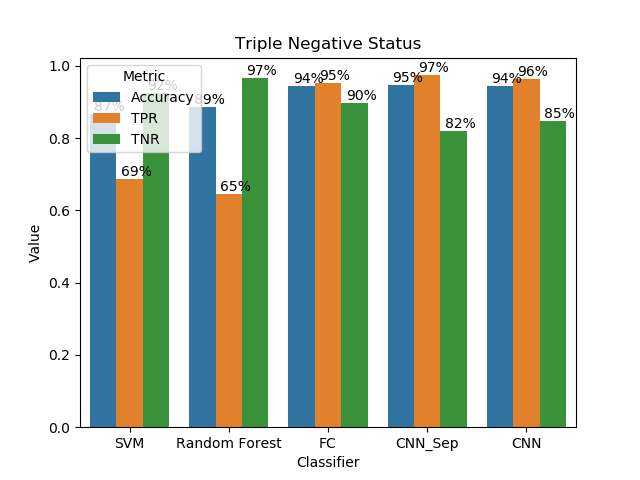
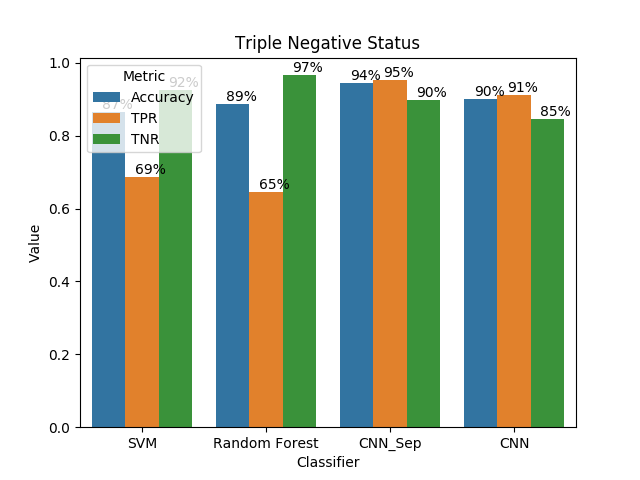
Add triple negative nn classification

diff --git a/receptorStatusPrediction.py b/receptorStatusPrediction.py
@@ -110,8 +110,8 @@ class ClassifyNet2D(nn.Module):
                 self.layers.append(nn.MaxPool2d(2))
         for i in range(num_layers):
             if i == 0:
-                # self.layers.append(nn.Linear(414*219*8, hidden_dim))
-                self.layers.append(nn.Linear(207 * 109 * 8, hidden_dim))
+                self.layers.append(nn.Linear(414*219*8, hidden_dim))
+                # self.layers.append(nn.Linear(207 * 109 * 8, hidden_dim))
                 # self.layers.append(nn.Linear(103 * 54 * 8, hidden_dim))
             elif i == num_layers-1:
                 if num_classes == 2:
@@ -131,9 +131,9 @@ class ClassifyNet2D(nn.Module):
                 if i == self.num_conv_layers * 2 - 1 and self.num_conv_layers > 0:
                     # import pdb
                     # pdb.set_trace()
-                    # x = x.view((-1, 414*219*8))
+                    x = x.view((-1, 414*219*8))
                     # x = x.view((-1, 103 * 54 * 8))
-                    x = x.view((-1, 207 * 109 * 8))
+                    # x = x.view((-1, 207 * 109 * 8))
                     intermediate = x
                 x = F.relu(layer(x))
             else:
@@ -534,7 +534,8 @@ def classify(receptor, X_test, X_train, Y_test, Y_train, multiclass=False, class
     return pred_test, pred_train, pred_test_rf, pred_train_rf, svm_stats, rf_stats
 
 
-def shuffle_idx(X, Y, test_idx=None, do_val_data=False):
+def shuffle_idx(X, Y, test_idx=None, do_val_data=False, seed=666):
+    np.seed(seed)
     if test_idx is None:
         train_idx = np.zeros_like(Y)
         if do_val_data:
@@ -1222,7 +1223,7 @@ class ClassifierDataset(Dataset):
 
 
 def train_classify_net(X_train, Y_train, X_test, Y_test, X_val, Y_val, hidden_dim, num_layers, batch_size, num_epochs, lr, num_sites,
-                       random_data, do_conv, do_sep, alg, triple_negative=False):
+                       random_data, do_conv, do_sep, alg, triple_negative=False, do_val=True):
 
     print(f"Training:\n conv2d: {do_conv}, sep: {do_sep}, sites: {num_sites}, lr: {lr}, random_data: {random_data}")
 
@@ -1234,18 +1235,11 @@ def train_classify_net(X_train, Y_train, X_test, Y_test, X_val, Y_val, hidden_di
             torch.nn.init.xavier_uniform_(m.weight)
             m.bias.data.fill_(0.01)
 
-    # num_components = 64
-    # print(X_train.shape)
-    # print("Running PCA to %d components" % num_components)
-    # pca = PCA(n_components=num_components, random_state=666)
-    # X_train = pca.fit_transform(X_train)
-    # X_test = pca.transform(X_val)
-    # X_train = preprocessing.scale(X_train)
-    # X_val = preprocessing.scale(X_test)
 
     train_dataset = ClassifierDataset(torch.from_numpy(X_train).float(), torch.from_numpy(Y_train).long(), num_sites, conv2d=do_conv, random_data=random_data)
     test_dataset = ClassifierDataset(torch.from_numpy(X_test).float(), torch.from_numpy(Y_test).long(), num_sites, conv2d=do_conv, random_data=random_data)
-    val_dataset = ClassifierDataset(torch.from_numpy(X_val).float(), torch.from_numpy(Y_val).long(), num_sites, conv2d=do_conv, random_data=random_data)
+    if do_val:
+        val_dataset = ClassifierDataset(torch.from_numpy(X_val).float(), torch.from_numpy(Y_val).long(), num_sites, conv2d=do_conv, random_data=random_data)
 
     target_list = []
     for _, t in train_dataset:
@@ -1274,7 +1268,8 @@ def train_classify_net(X_train, Y_train, X_test, Y_test, X_val, Y_val, hidden_di
                               batch_size=batch_size,
                               sampler=weighted_sampler)
     test_loader = DataLoader(dataset=test_dataset, batch_size=1)
-    val_loader = DataLoader(dataset=val_dataset, batch_size=1)
+    if do_val:
+        val_loader = DataLoader(dataset=val_dataset, batch_size=1)
 
     if do_conv:
         if do_sep:
@@ -1327,52 +1322,60 @@ def train_classify_net(X_train, Y_train, X_test, Y_test, X_val, Y_val, hidden_di
             train_epoch_class_tp += np.array([i.item() for i in train_class_tp])
             train_epoch_class_fp += np.array([i.item() for i in train_class_fp])
             train_epoch_class_count += np.array([i.item() for i in train_class_count])
-        # VALIDATION
-        with torch.no_grad():
-            val_epoch_loss = 0
-            val_epoch_class_tp = np.zeros(num_classes)
-            val_epoch_class_fp = np.zeros(num_classes)
-            val_epoch_class_count = np.zeros(num_classes)
-            val_epoch_acc = np.zeros(1)
-            net.eval()
-            for X_val_batch, y_val_batch in val_loader:
-                count_val += 1
-                y_val_pred = net(X_val_batch)
-                if not triple_negative:
-                    y_val_pred = torch.reshape(y_val_pred, (-1, 4))
-                else:
-                    y_val_pred = y_val_pred.reshape(1)
-                    y_val_batch = y_val_batch.type(torch.FloatTensor)
-                val_loss = criterion(y_val_pred, y_val_batch)
-                val_class_tp, val_class_fp, val_class_count, val_acc = multi_acc(y_val_pred, y_val_batch, triple_negative)
+        if do_val:
+            # VALIDATION
+            with torch.no_grad():
+                val_epoch_loss = 0
+                val_epoch_class_tp = np.zeros(num_classes)
+                val_epoch_class_fp = np.zeros(num_classes)
+                val_epoch_class_count = np.zeros(num_classes)
+                val_epoch_acc = np.zeros(1)
+                net.eval()
+                for X_val_batch, y_val_batch in val_loader:
+                    count_val += 1
+                    y_val_pred = net(X_val_batch)
+                    if not triple_negative:
+                        y_val_pred = torch.reshape(y_val_pred, (-1, 4))
+                    else:
+                        y_val_pred = y_val_pred.reshape(1)
+                        y_val_batch = y_val_batch.type(torch.FloatTensor)
+                    val_loss = criterion(y_val_pred, y_val_batch)
+                    val_class_tp, val_class_fp, val_class_count, val_acc = multi_acc(y_val_pred, y_val_batch, triple_negative)
 
-                val_epoch_loss += val_loss.item()
-                val_epoch_acc += np.array(val_acc.item())
-                val_epoch_class_tp += np.array([i.item() for i in val_class_tp])
-                val_epoch_class_fp += np.array([i.item() for i in val_class_fp])
-                val_epoch_class_count += np.array([i.item() for i in val_class_count])
+                    val_epoch_loss += val_loss.item()
+                    val_epoch_acc += np.array(val_acc.item())
+                    val_epoch_class_tp += np.array([i.item() for i in val_class_tp])
+                    val_epoch_class_fp += np.array([i.item() for i in val_class_fp])
+                    val_epoch_class_count += np.array([i.item() for i in val_class_count])
+
+            val_sum_not_idx = np.zeros(num_classes)
+            for i in range(num_classes):
+                val_sum_not_idx[i] = np.sum([val_epoch_class_count[j] for j in np.arange(num_classes) if j != i])
+            loss_stats['val'].append(val_epoch_loss / len(val_loader))
+            accuracy_stats['val_class_TPR'] = val_epoch_class_tp / val_epoch_class_count
+            accuracy_stats['val_class_FPR'] = val_epoch_class_fp / val_sum_not_idx
+            accuracy_stats['val_acc'] = val_epoch_acc / count_val
 
         train_sum_not_idx = np.zeros(num_classes)
-        val_sum_not_idx = np.zeros(num_classes)
         for i in range(num_classes):
-            val_sum_not_idx[i] = np.sum([val_epoch_class_count[j] for j in np.arange(num_classes) if j != i])
             train_sum_not_idx[i] = np.sum([train_epoch_class_count[j] for j in np.arange(num_classes) if j != i])
 
         loss_stats['train'].append(train_epoch_loss / len(train_loader))
-        loss_stats['val'].append(val_epoch_loss / len(val_loader))
         accuracy_stats['train_class_TPR'] = train_epoch_class_tp / train_epoch_class_count
-        accuracy_stats['val_class_TPR'] = val_epoch_class_tp / val_epoch_class_count
         accuracy_stats['train_class_FPR'] = train_epoch_class_fp / train_sum_not_idx
-        accuracy_stats['val_class_FPR'] = val_epoch_class_fp / val_sum_not_idx
         accuracy_stats['train_acc'] = train_epoch_acc / count
-        accuracy_stats['val_acc'] = val_epoch_acc / count_val
-        scheduler.step(e)
-        tqdm.write(f'Epoch {e + 0:03}: | Train Loss: {train_epoch_loss / len(train_loader):.5f} | '
-                   f'Val Loss: {val_epoch_loss / len(val_loader):.5f} | '
-                   f'Train Class TPR: {np.round(train_epoch_class_tp / train_epoch_class_count, decimals=3)}| '
-                   f'Val Class TPR: {np.round(val_epoch_class_tp / val_epoch_class_count, decimals=3)}| '
-                   )
 
+        scheduler.step(e)
+        if do_val:
+            tqdm.write(f'Epoch {e + 0:03}: | Train Loss: {train_epoch_loss / len(train_loader):.5f} | '
+                       f'Val Loss: {val_epoch_loss / len(val_loader):.5f} | '
+                       f'Train Class TPR: {np.round(train_epoch_class_tp / train_epoch_class_count, decimals=3)}| '
+                       f'Val Class TPR: {np.round(val_epoch_class_tp / val_epoch_class_count, decimals=3)}| '
+                       )
+        else:
+            tqdm.write(f'Epoch {e + 0:03}: | Train Loss: {train_epoch_loss / len(train_loader):.5f} | '
+                       f'Train Class TPR: {np.round(train_epoch_class_tp / train_epoch_class_count, decimals=3)}| '
+                       )
     # TEST
     with torch.no_grad():
         test_epoch_loss = 0
@@ -1443,18 +1446,25 @@ def run_nn(df, num_epochs=70, batch_size=8,
         Y = np.zeros(df.shape[0])
         Y[df.pos] = 0
         Y[df.neg] = 1
+        test_idx = ((df['neg_pre_fish'] != df['neg']) | (df['pos_pre_fish'] != df['pos'])) & (~df['NA_pre_fish'])
+        test_idx = test_idx | ((df['her2_ihc'] != df['her2_ihc_level']) & (df['her2_ihc_level'] != -2) & (
+                    (df['her2_fish'] == -2) | (df['her2_fish'] == 0)))
+
     else:
         Y = df_to_class_labels(df, classes=CLASSES_REDUCED)
 
     X = df[df.columns[['cg' in col for col in df.columns]]].values.astype(np.float32) / 1000.0
-    X_train, Y_train, X_test, Y_test, X_val, Y_val, _, _ = shuffle_idx(X, Y, do_val_data=True)
+    if triple_negative:
+        X_train, Y_train, X_test, Y_test, _, _ = shuffle_idx(X, Y, do_val_data=False)
+    else:
+        X_train, Y_train, X_test, Y_test, X_val, Y_val, _, _ = shuffle_idx(X, Y, do_val_data=True)
 
     print(np.unique(Y_train, return_counts=True))
     print(np.unique(Y_val, return_counts=True))
     print(np.unique(Y_test, return_counts=True))
     if triple_negative:
         stats_df = pd.DataFrame(columns=['Value', 'Metric', 'Classifier'])
-        for alg_type in ['CNN', 'CNN_Sep', 'FC']:
+        for alg_type in [ 'FC', 'CNN', 'CNN_Sep']:
             for data_amount in [X_train.shape[1]]:
                 lr = 1e-5
                 net, accuracy_stats = train_classify_net(X_train, Y_train, X_test, Y_test, X_val, Y_val, hidden_dim, num_layers,
@@ -1462,7 +1472,7 @@ def run_nn(df, num_epochs=70, batch_size=8,
                                                          random_data=False,
                                                          do_conv=alg_type in ['CNN', 'CNN_Sep'],
                                                          do_sep=(alg_type == 'CNN_Sep'), alg=alg_type,
-                                                         triple_negative=triple_negative)
+                                                         triple_negative=triple_negative, do_val=False)
                 if triple_negative:
                     series = pd.Series({'Value': accuracy_stats['test_acc'][0], 'Metric': 'Accuracy', 'Classifier': alg_type})
                     stats_df = stats_df.append(series, ignore_index=True)
@@ -1549,7 +1559,8 @@ if __name__ == '__main__':
                                      'Classifier': ['SVM', 'SVM', 'SVM',
                                                     'Random Forest', 'Random Forest', 'Random Forest']})
             stats_df = pd.concat([stats_df, stats_nn], ignore_index=True)
-            ax = sns.barplot(x="Classifier", y="Value", hue="Metric", data=stats_df)
+            sns.set(style="whitegrid")
+            ax = sns.barplot(x="Classifier", y="Value", hue="Metric", data=stats_df, palette='muted')
             for p in ax.patches:
                 ax.annotate('{:.0f}%'.format(np.round(p.get_height()*100.0)), (p.get_x() + 0.2, p.get_height()),
                             ha='center', va='bottom',
